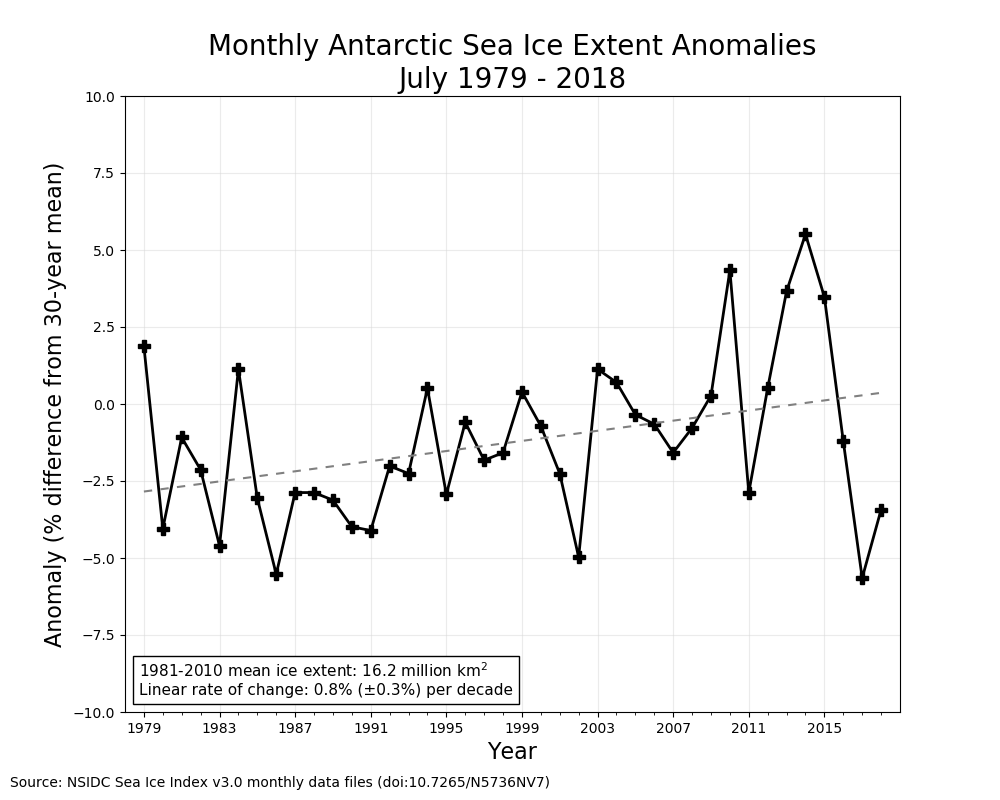
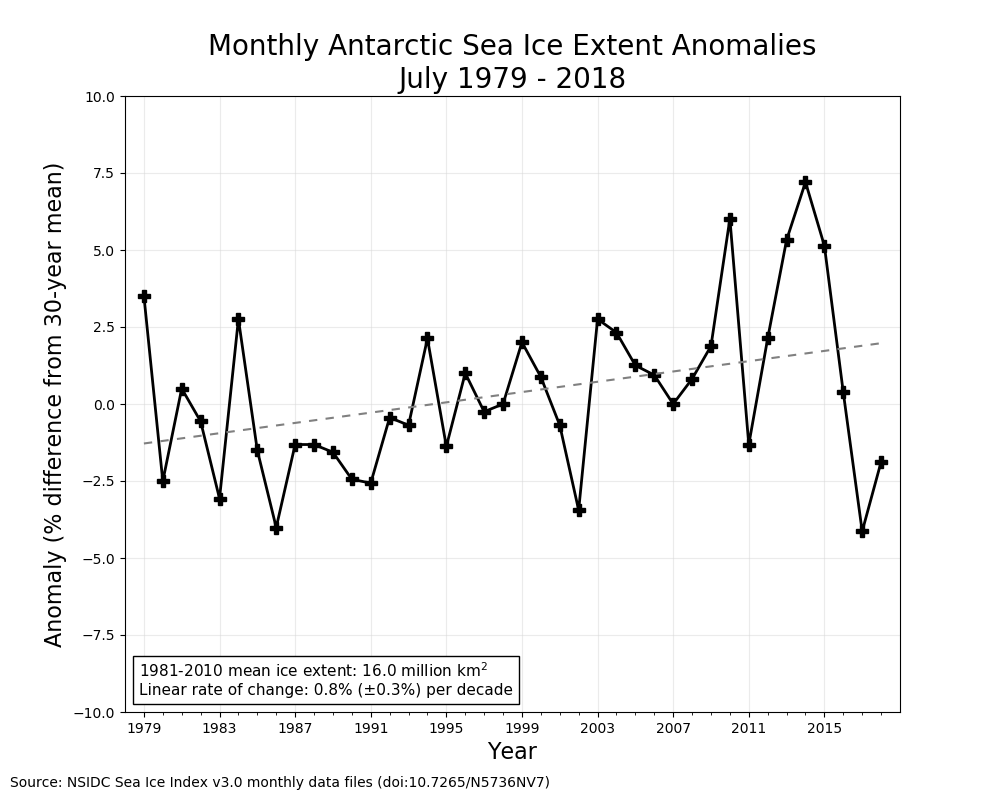
Update climo calculation
I don't know what I was doing beforehand

Changed region(s): [[0.124, 0.2188, 0.899, 0.75]]

diff --git a/nsidc-tools/MonthlyIceIndexPlotter.py b/nsidc-tools/MonthlyIceIndexPlotter.py
@@ -159,7 +159,7 @@ def plot_dframe(dframe, month=None, version='3.0', print_summary=False):
     if print_summary:
         print est.summary2() # pylint: disable=E1101
     # get the climatological (30-year) mean extent for 1981-2010
-    climo_1981_2010 = subframe[subframe.loc[subframe.year == 1981].index.tolist()[0]:subframe.loc[subframe.year == 2011].index.tolist()[0]].extent.mean()
+    climo_1981_2010 = subframe.loc[(subframe.year >= 1981) & (subframe.year <= 2010), 'extent'].mean()
     # linear rate of change in million sq km
     change_rate = est.params.year
     frame_text = AnchoredText("Linear rate of change: {} km$^2$ per year\nPercent per decade (relative to 1981-2010 mean): {}%".format(int(round(change_rate * 1000000, -2)),round(change_rate / climo_1981_2010 * 10 * 100, 2)),
@@ -183,7 +183,7 @@ def plot_anomaly(dframe, month=None, version='3.0', print_summary=False):
     title_font = {'fontsize': 20, 'fontweight': 'regular'}
     axes_label_font = {'fontsize': 16, 'fontweight': 'regular'}
     # get the climatological (30-year) mean extent for 1981-2010
-    climo_1981_2010 = subframe[subframe.loc[subframe.year == 1981].index.tolist()[0]:subframe.loc[subframe.year == 2011].index.tolist()[0]].extent.mean()
+    climo_1981_2010 = subframe.loc[(subframe.year >= 1981) & (subframe.year <= 2010), 'extent'].mean()
     # calculate the anomalies relative to 30-year mean
     extent_anomaly = (subframe.extent - climo_1981_2010) / climo_1981_2010 * 100.
     extent_anomaly.name = 'extent_anomaly'
